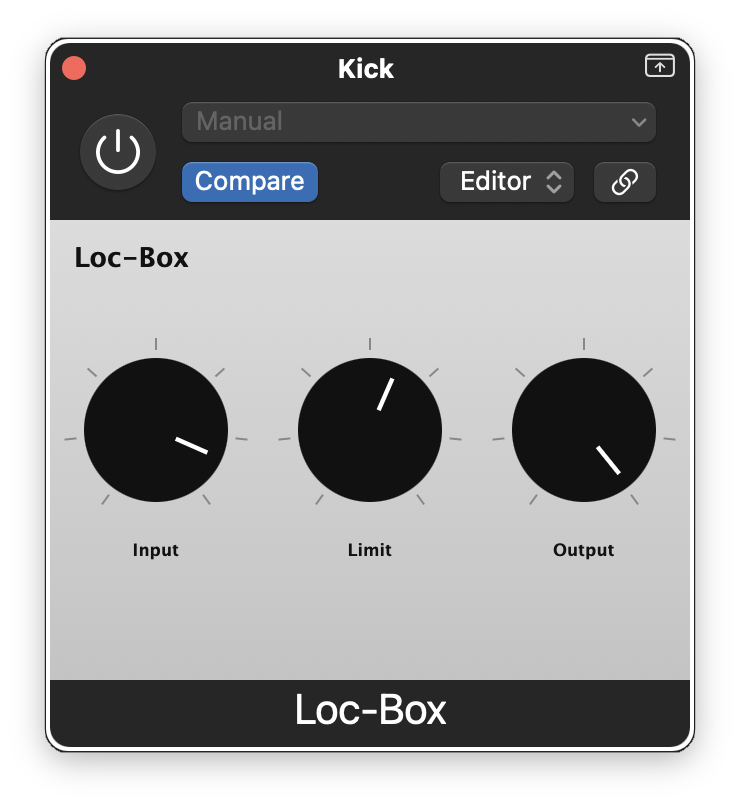
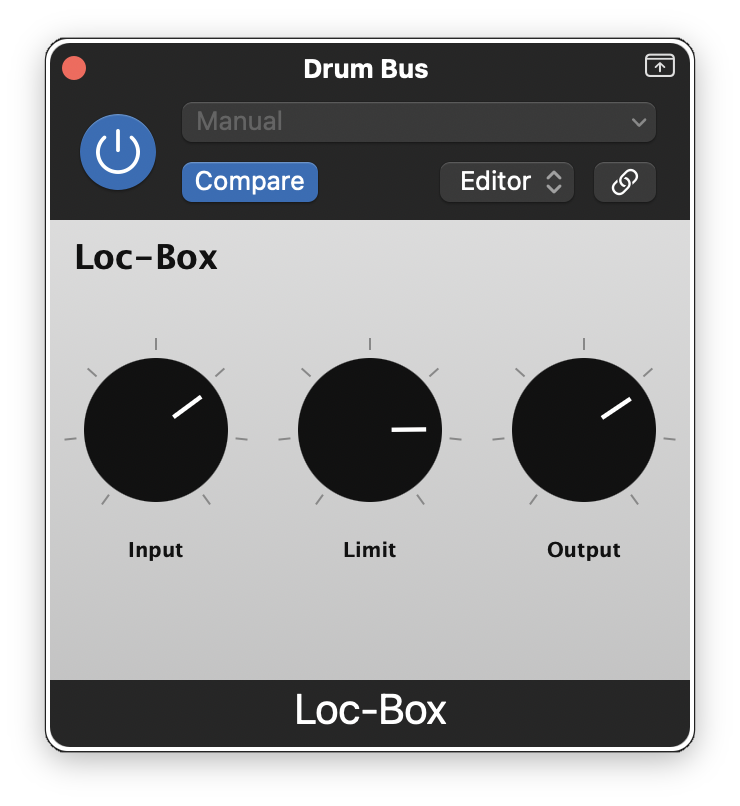
Loc-Box v0.3: transformer saturation, sidechain HPF, brickwall ratio
Add input/output transformer models (the biggest part of the Level Loc
sound per Korneff). Sidechain HPF at ~18 Hz from the 2 uF AC-coupling
cap. Increase ratio to 20:1 (true brickwall). Attack varies with limit
setting (distance selector interaction). Default limit lowered to 25.
Add package script for DMG distribution.

diff --git a/src/PluginProcessor.cpp b/src/PluginProcessor.cpp
@@ -26,7 +26,7 @@ LocBoxAudioProcessor::createParameterLayout()
     // LIMIT: compression amount (threshold, 0 = off, 100 = heavy)
     layout.add (std::make_unique<juce::AudioParameterFloat> (
         juce::ParameterID { "limit", 1 }, "Limit",
-        juce::NormalisableRange<float> (0.0f, 100.0f, 0.01f), 50.0f,
+        juce::NormalisableRange<float> (0.0f, 100.0f, 0.01f), 25.0f,
         juce::AudioParameterFloatAttributes().withLabel (" %")));
 
     // OUTPUT: makeup gain (audio taper)
@@ -41,9 +41,20 @@ LocBoxAudioProcessor::createParameterLayout()
 
 void LocBoxAudioProcessor::prepareToPlay (double sampleRate, int)
 {
-    // Envelope detector coefficients
-    attackCoeff  = std::exp (-1.0f / (static_cast<float> (sampleRate) * kAttackS));
-    releaseCoeff = std::exp (-1.0f / (static_cast<float> (sampleRate) * kReleaseS));
+    const float sr = static_cast<float> (sampleRate);
+    piOverSr = juce::MathConstants<float>::pi / sr;
+
+    // Input transformer HPF at ~80 Hz (cheap transformer LF roll-off)
+    const float xfmrK = std::tan (piOverSr * 80.0f);
+    inputXfmrCoeff = xfmrK / (1.0f + xfmrK);
+
+    // Sidechain HPF at ~18 Hz (2 uF AC-coupling cap in detector path)
+    const float scK = std::tan (piOverSr * 18.0f);
+    scHpfCoeff = scK / (1.0f + scK);
+
+    // Envelope detector coefficients (base values, modulated per-block by limit)
+    attackCoeff  = std::exp (-1.0f / (sr * 0.0005f));
+    releaseCoeff = std::exp (-1.0f / (sr * 0.7f));
 
     const float inp = apvts.getRawParameterValue ("input")->load();
     const float lim = apvts.getRawParameterValue ("limit")->load();
@@ -51,7 +62,7 @@ void LocBoxAudioProcessor::prepareToPlay (double sampleRate, int)
 
     const float normInp    = inp / 100.0f;
     const float initInput  = normInp * normInp * 16.0f;
-    const float threshDB   = -48.0f * (lim / 100.0f);
+    const float threshDB   = -24.0f * (lim / 100.0f);
     const float initThresh = std::pow (10.0f, threshDB / 20.0f);
     const float normOut    = out / 100.0f;
     const float initOutput = normOut * normOut * 16.0f;
@@ -67,7 +78,9 @@ void LocBoxAudioProcessor::prepareToPlay (double sampleRate, int)
         outputGainSmoothed[ch].reset (sampleRate, 0.02);
         outputGainSmoothed[ch].setCurrentAndTargetValue (initOutput);
 
-        envelope[ch] = 0.0f;
+        envelope[ch]       = 0.0f;
+        inputXfmrState[ch] = 0.0f;
+        scHpfState[ch]     = 0.0f;
     }
 }
 
@@ -91,17 +104,26 @@ void LocBoxAudioProcessor::processBlock (juce::AudioBuffer<float>& buffer,
     const float lim = apvts.getRawParameterValue ("limit")->load();
     const float out = apvts.getRawParameterValue ("output")->load();
 
-    // Input gain: audio taper (squared), max +12 dB
+    // Input gain: audio taper (squared), max +24 dB
     const float normInp         = inp / 100.0f;
     const float targetInputGain = normInp * normInp * 16.0f;
 
-    // Threshold: 0% limit = 0 dBFS (no limiting), 100% limit = -48 dBFS (heavy)
-    const float threshDB        = -48.0f * (lim / 100.0f);
+    // Threshold: 0% limit = 0 dBFS (no limiting), 100% limit = -24 dBFS (heavy)
+    const float threshDB        = -24.0f * (lim / 100.0f);
     const float targetThreshold = std::pow (10.0f, threshDB / 20.0f);
 
-    // Output gain: audio taper (squared), max +12 dB
+    // Output gain: audio taper (squared), max +24 dB
     const float normOut          = out / 100.0f;
     const float targetOutputGain = normOut * normOut * 16.0f;
+
+    // Attack/release modulated by limit setting (distance selector interaction):
+    // Higher limit -> faster attack (more aggressive), slightly faster release.
+    // Attack: 800 us at limit=0 down to 300 us at limit=100
+    // Release: fixed at 700 ms
+    const float normLim   = lim / 100.0f;
+    const float attackS   = 0.0008f - 0.0005f * normLim;   // 800 us -> 300 us
+    const float sr        = juce::MathConstants<float>::pi / piOverSr;  // recover sample rate
+    const float atkCoeff  = std::exp (-1.0f / (sr * attackS));
 
     const int numChannels = buffer.getNumChannels();
     const int numSamples  = buffer.getNumSamples();
@@ -124,43 +146,54 @@ void LocBoxAudioProcessor::processBlock (juce::AudioBuffer<float>& buffer,
 
             float x = data[i] * ig;
 
+            // --- Input transformer ---
+            // Cheap transformer: HPF at ~80 Hz (LF roll-off) + soft saturation.
+            // "The transformers are a huge part of this sound" — Dan Korneff
+            inputXfmrState[chi] += inputXfmrCoeff * (x - inputXfmrState[chi]);
+            x -= inputXfmrState[chi];
+
+            // Input transformer saturation (asymmetric, cheap core)
+            const float xAbs = std::abs (x);
+            if (xAbs > 0.4f)
+            {
+                const float sat   = std::tanh (x);
+                const float blend = juce::jlimit (0.0f, 1.0f, (xAbs - 0.4f) * 2.5f);
+                x = x * (1.0f - blend) + sat * blend;
+            }
+
+            // --- Sidechain with HPF (AC-coupling cap, ~18 Hz) ---
+            // The 2 uF cap in the detector path means the limiter is
+            // less sensitive to sub-bass content.
+            scHpfState[chi] += scHpfCoeff * (x - scHpfState[chi]);
+            const float scSignal = x - scHpfState[chi];
+            const float scAbs    = std::abs (scSignal);
+
             // --- Envelope follower (peak detector) ---
-            // Models the full-wave rectifier + RC network of the Level Loc sidechain.
-            // Attack:  39 ohm into 2 uF -> ~500 us
-            // Release: 1M ohm from 2 uF -> ~700 ms
-            const float absX = std::abs (x);
-            if (absX > envelope[chi])
-                envelope[chi] = absX + attackCoeff * (envelope[chi] - absX);
+            // Attack/release modulated by limit setting (distance selector).
+            if (scAbs > envelope[chi])
+                envelope[chi] = scAbs + atkCoeff * (envelope[chi] - scAbs);
             else
-                envelope[chi] = absX + releaseCoeff * (envelope[chi] - absX);
+                envelope[chi] = scAbs + releaseCoeff * (envelope[chi] - scAbs);
 
             // --- Gain reduction ---
-            // Level Loc spec: 40 dB input change -> ~6 dB output change.
-            // Modelled as feedforward compressor with ratio ~7:1.
-            // gain = (threshold / envelope) ^ ((ratio-1)/ratio)
+            // Brickwall limiter, ratio ~20:1.  The original's "locked" output
+            // behavior is closer to infinity:1; the apparent 40 dB -> 6 dB spec
+            // includes transformer softening.
             float gain = 1.0f;
             if (envelope[chi] > th && th > 1.0e-10f)
                 gain = std::pow (th / envelope[chi], kCompExp);
 
             // --- JFET nonlinearity (2N5458 variable resistor) ---
-            // The FET adds subtle even-harmonic distortion that increases
-            // with gain reduction.  Below ~100 mV it behaves as a linear
-            // variable resistor; above that it transitions to a variable
-            // current source, introducing asymmetric distortion.
+            // Even-harmonic distortion proportional to gain reduction.
             float compressed = x * gain;
             const float grAmount = juce::jlimit (0.0f, 1.0f, 1.0f - gain);
             compressed *= 1.0f + grAmount * 0.12f * compressed;
 
-            // --- Transistor stage soft saturation ---
-            // Models the discrete 2N5088 amplifier stages clipping
-            // when driven hard (3% THD spec).
-            if (std::abs (compressed) > 0.8f)
-            {
-                const float softClip = std::tanh (compressed * 1.25f);
-                const float blend    = juce::jlimit (0.0f, 1.0f,
-                                           (std::abs (compressed) - 0.8f) * 5.0f);
-                compressed = compressed * (1.0f - blend) + softClip * blend;
-            }
+            // --- Output transformer ---
+            // No buffer stage: FET output drives step-up transformer directly.
+            // Saturation varies with gain reduction (impedance changes).
+            const float outDrive = 1.5f + grAmount * 2.0f;
+            compressed = std::tanh (compressed * outDrive) / outDrive;
 
             data[i] = compressed * og;
         }

diff --git a/src/PluginProcessor.h b/src/PluginProcessor.h
@@ -47,15 +47,21 @@ private:
     // Envelope follower state (per channel)
     float envelope[2] { 0.0f, 0.0f };
 
-    // Attack/release coefficients (computed in prepareToPlay)
-    float attackCoeff  = 0.0f;
-    float releaseCoeff = 0.0f;
+    // Input transformer HPF state (per channel, ~80 Hz roll-off)
+    float inputXfmrState[2] { 0.0f, 0.0f };
 
-    // Compression constants
-    static constexpr float kRatio    = 7.0f;            // ~7:1 (40dB in -> 6dB out)
-    static constexpr float kCompExp  = 6.0f / 7.0f;     // (ratio-1)/ratio
-    static constexpr float kAttackS  = 0.0005f;          // 500 us
-    static constexpr float kReleaseS = 0.7f;             // 700 ms
+    // Sidechain HPF state (per channel, ~18 Hz AC coupling)
+    float scHpfState[2] { 0.0f, 0.0f };
+
+    // Coefficients (computed in prepareToPlay)
+    float attackCoeff     = 0.0f;
+    float releaseCoeff    = 0.0f;
+    float inputXfmrCoeff  = 0.0f;   // input transformer HPF
+    float scHpfCoeff      = 0.0f;   // sidechain AC-coupling HPF
+    float piOverSr        = 0.0f;
+
+    // Compression exponent (ratio-dependent, computed once)
+    static constexpr float kCompExp = 19.0f / 20.0f;  // ratio 20:1
 
     JUCE_DECLARE_NON_COPYABLE_WITH_LEAK_DETECTOR (LocBoxAudioProcessor)
 };

diff --git a/src/PluginEditor.cpp b/src/PluginEditor.cpp
@@ -78,7 +78,7 @@ LocBoxAudioProcessorEditor::LocBoxAudioProcessorEditor (LocBoxAudioProcessor& p)
     auto setupLabel = [this] (juce::Label& label, const char* text)
     {
         label.setText (text, juce::dontSendNotification);
-        label.setFont (juce::Font (juce::FontOptions().withHeight (10.0f).withStyle ("Bold")));
+        label.setFont (juce::Font (juce::FontOptions().withHeight (12.0f).withStyle ("Bold")));
         label.setColour (juce::Label::textColourId, juce::Colour (0xff111111));
         label.setJustificationType (juce::Justification::centred);
         addAndMakeVisible (label);
@@ -108,8 +108,8 @@ void LocBoxAudioProcessorEditor::paint (juce::Graphics& g)
 
     // Plugin name
     g.setColour (juce::Colour (0xff111111));
-    g.setFont (juce::Font (juce::FontOptions().withHeight (16.0f).withStyle ("Bold")));
-    g.drawText ("Loc-Box", 12, 6, 150, 20, juce::Justification::bottomLeft);
+    g.setFont (juce::Font (juce::FontOptions().withHeight (20.0f).withStyle ("Bold")));
+    g.drawText ("Loc-Box", 12, 4, 150, 24, juce::Justification::bottomLeft);
 }
 
 void LocBoxAudioProcessorEditor::resized()

diff --git a/CHANGELOG.md b/CHANGELOG.md
@@ -1,5 +1,16 @@
 # Changelog
 
+## 0.3 — 2026-04-01
+
+- Add input transformer model: HPF at ~80 Hz + asymmetric soft saturation
+- Add output transformer model: saturation varies with gain reduction (no buffer stage)
+- Add sidechain HPF at ~18 Hz (2 uF AC-coupling cap in detector path)
+- Increase compression ratio from 7:1 to 20:1 (closer to original brickwall behavior)
+- Attack time now varies with limit setting (800 us at 0% to 300 us at 100%)
+- Lower default limit from 50 to 25 for subtler out-of-box behavior
+- Larger plugin name and knob labels
+- Add package script for DMG distribution
+
 ## 0.2 — 2026-03-31
 
 - Fix input/output gain structure: unity gain at 12 o'clock (max +24 dB)
